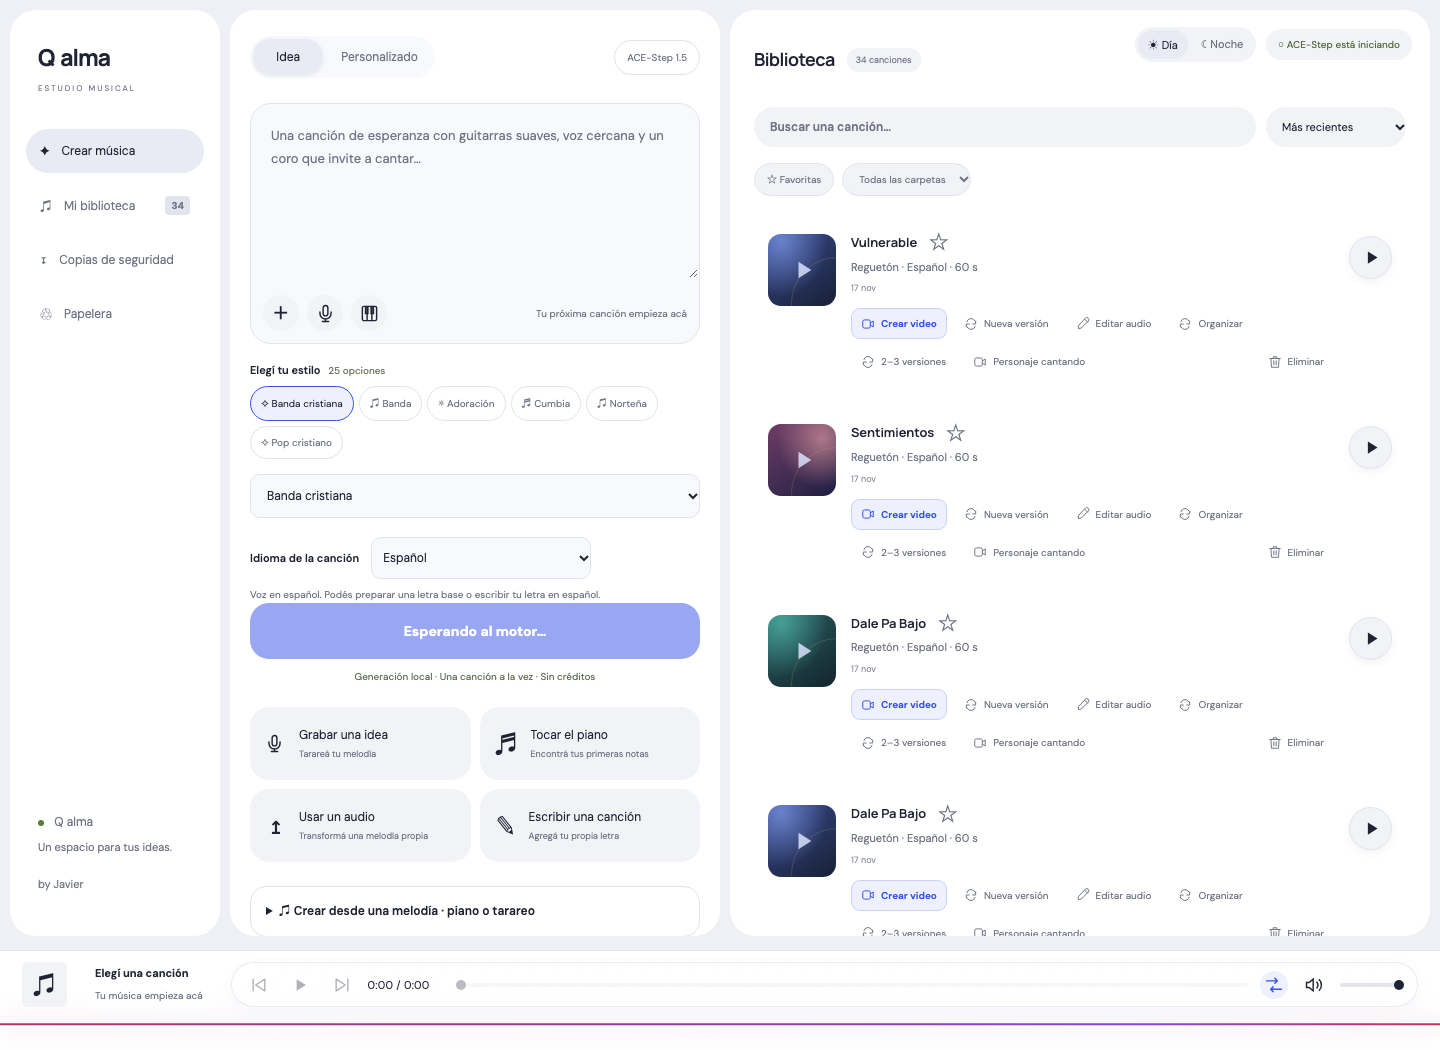
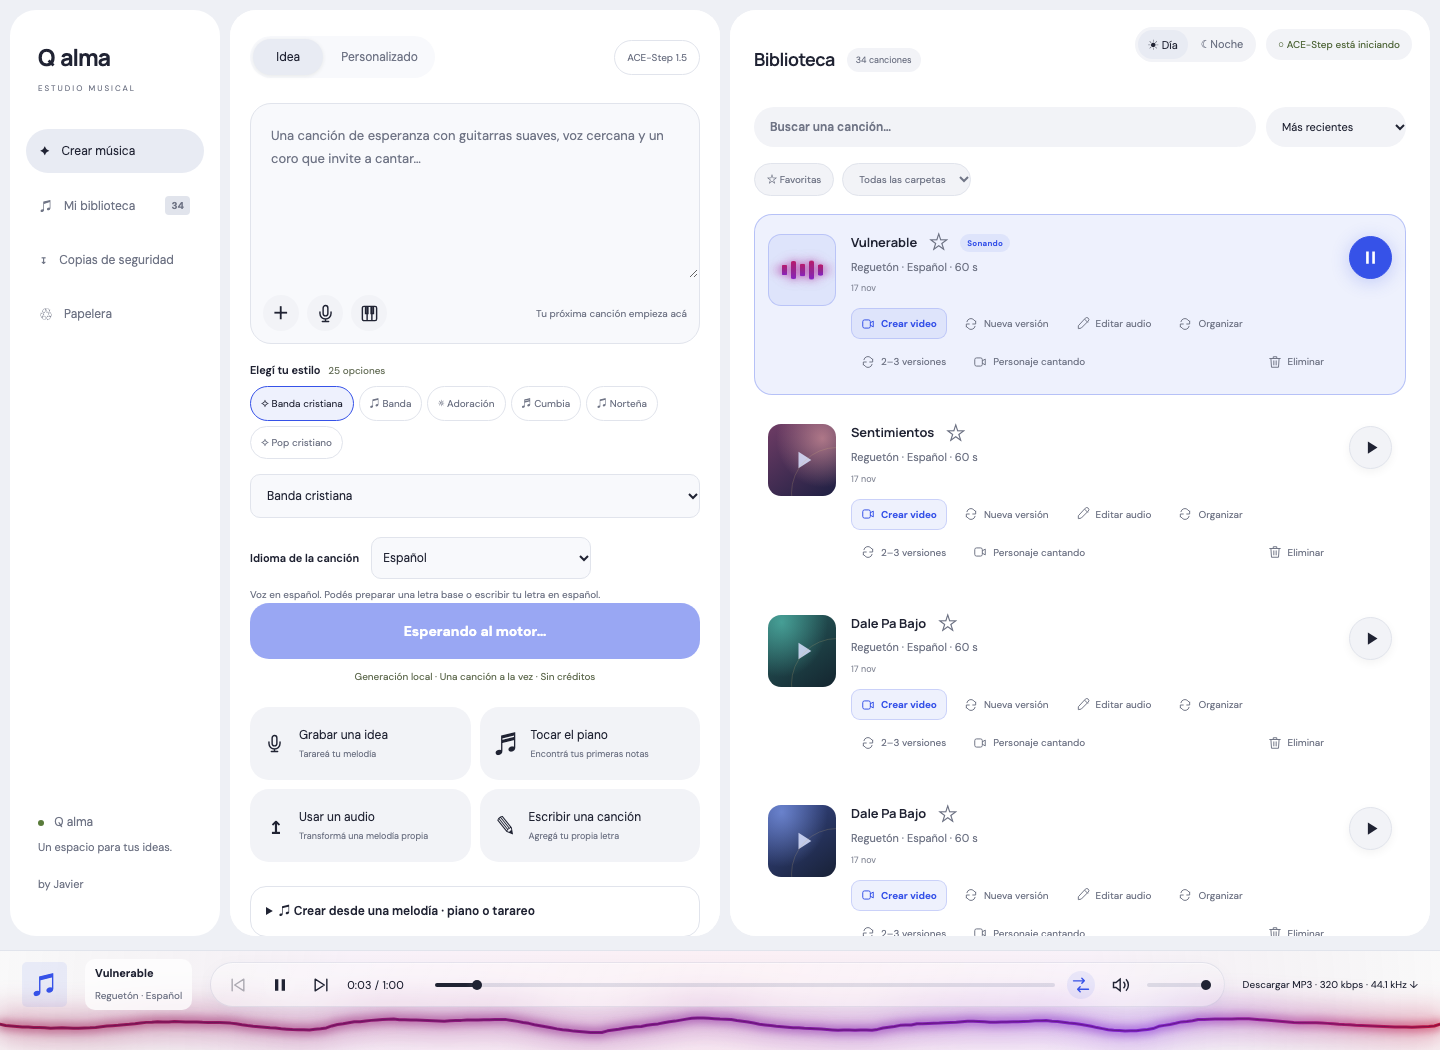
Mostrar primero el modo oscuro con el reproductor activo

diff --git a/README.md b/README.md
@@ -6,15 +6,15 @@ y compartir Alma. No requiere una cuenta de Alma, créditos ni suscripción.
 
 ## Capturas del estudio
 
-Podés cambiar de tema con **Día** y **Noche**. Las capturas muestran la biblioteca del autor.
-
-### Modo claro
-
-![Q Alma en modo claro con las canciones del autor en la biblioteca](docs/alma-claro.png)
+Podés cambiar de tema con **Día** y **Noche**. En ambas capturas se ve la biblioteca del autor mientras se reproduce «Vulnerable».
 
 ### Modo oscuro
 
-![Q Alma en modo oscuro con las canciones del autor en la biblioteca](docs/alma-oscuro.png)
+![Q Alma en modo oscuro con Vulnerable en reproducción](docs/alma-oscuro.png)
+
+### Modo claro
+
+![Q Alma en modo claro con Vulnerable en reproducción](docs/alma-claro.png)
 
 ## Qué incluye
 
